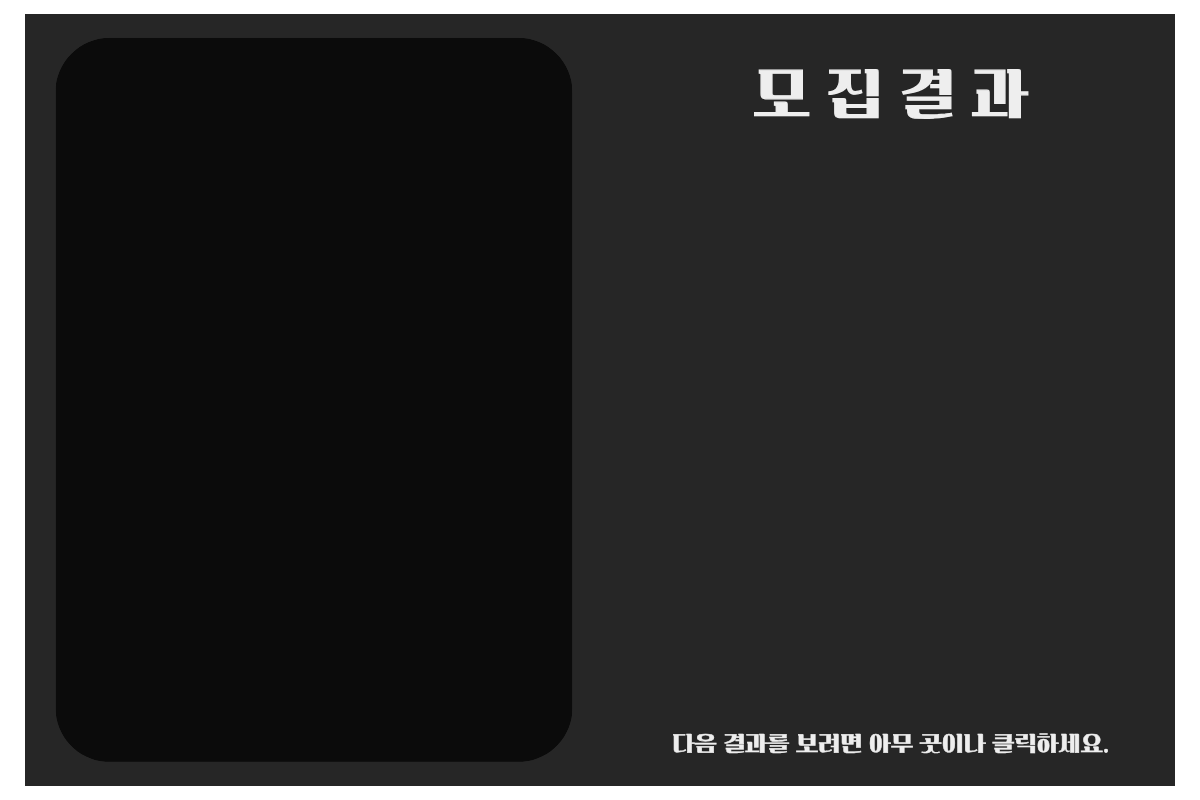
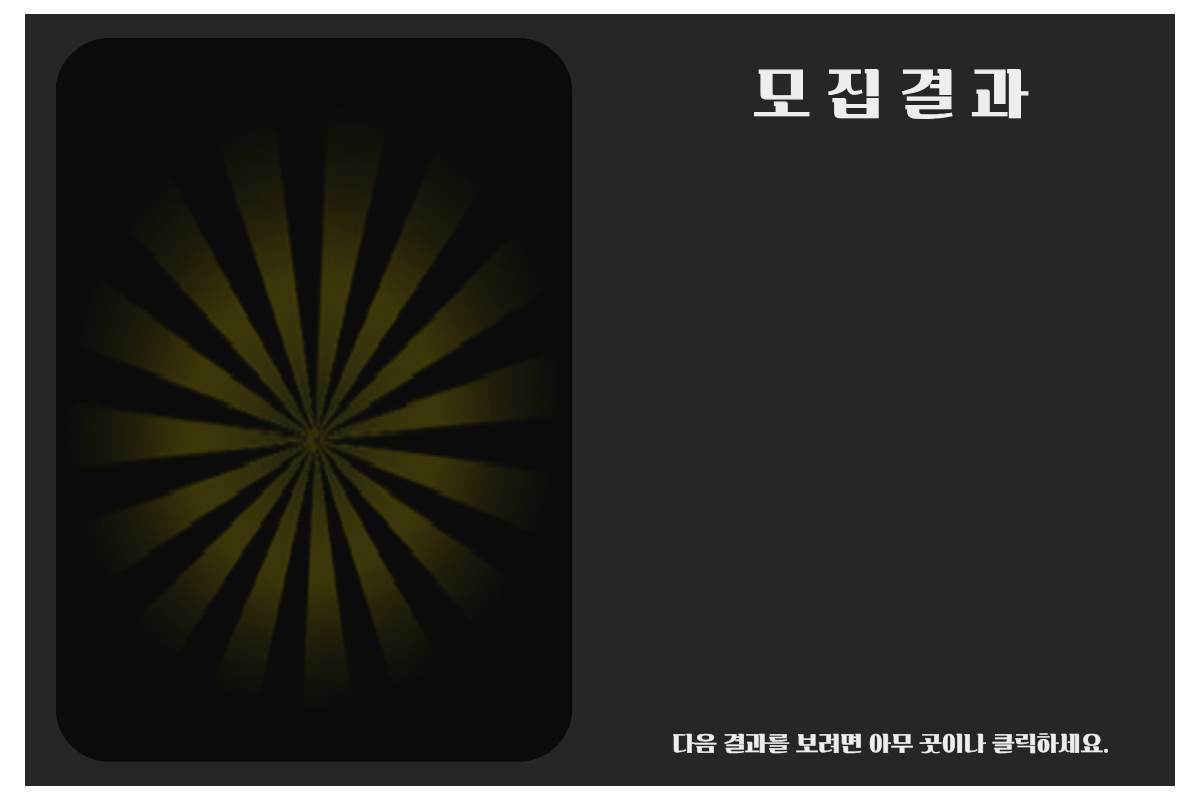
뽑기 연출 마무리 및 상점 마무리

Changed region(s): [[0.0925, 0.25, 0.4317, 0.8125]]

diff --git a/scene_folder/shop/shop.py b/scene_folder/shop/shop.py
@@ -8,14 +8,20 @@ import currency
 import random
 
 get_stack = []
-get_event = False
+get_event = False #뽑기 이벤트 위한 변수
+old_anime = None
+new_anime = None
+is_event = False #진화 이벤트 위한 변수
 
 def Reset():
-    global shop_bg_bg, shop_bg, result_bg, new_char
+    global shop_bg_bg, shop_bg, result_bg, new_char, arrow, evo_max, get_gem
     shop_bg_bg = BackGround(load_image('source\\background\\bg_home_morning.png'),gamemanager.WIDTH/2,gamemanager.HEIGHT/2,1024,800)
     shop_bg = load_image('source\\background\\shop_bg.png')
     result_bg = load_image('source\\background\\shop_result_bg.png')
     new_char = load_image('source\\background\\new_char_get.png')
+    arrow = load_image('source\\background\\shop_evo_change.png')
+    evo_max = load_image('source\\background\\shop_evo_max.png')
+    get_gem = load_image('source\\background\\shop_get_gem.png')
 
 def Update(dt):
     global shop_bg_bg, shop_bg
@@ -24,7 +30,7 @@ def Update(dt):
     pass
 
 def handle_events():
-    global get_event, get_stack
+    global get_event, get_stack, old_anime, new_anime, is_event
 
     events = get_events()
     for event in events:
@@ -49,11 +55,14 @@ def handle_events():
                         if Characters[get_stack[0] - 1].get == False:
                             Characters[get_stack[0] - 1].get = True
                     get_stack.pop(0)
-                elif get_stack == []:
-                    get_event = False
+                    is_event = False
+                    old_anime = None
+                    new_anime = None
+                    if get_stack == []:
+                        get_event = False
 
 def Draw():
-    global shop_bg_bg, shop_bg, result_bg, get_stack, new_char
+    global get_stack, new_char, old_anime, new_anime, is_event, evo_max, get_gem
     shop_bg_bg.Draw()
     shop_bg.clip_draw(0,0,1200,800,gamemanager.WIDTH/2,gamemanager.HEIGHT/2,gamemanager.WIDTH,gamemanager.HEIGHT)
     ui.draw()
@@ -65,4 +74,24 @@ def Draw():
                 if Characters[get_stack[0]-1].get == False:
                     new_char.clip_draw(0,0,new_char.w,new_char.h,gamemanager.WIDTH/2,gamemanager.HEIGHT/2, gamemanager.WIDTH,gamemanager.HEIGHT)
                 elif Characters[get_stack[0]-1].get == True:
-                    pass
+                    if Characters[get_stack[0]-1].evo < 4:
+                        if old_anime == None:
+                            old_anime = Characters[get_stack[0]-1].anime[0][0]
+                        if is_event == False:
+                            Characters[get_stack[0]-1].evolution()
+                            is_event = True
+                        if new_anime == None:
+                            new_anime = Characters[get_stack[0]-1].anime[0][1]
+                        arrow.clip_draw(0,0,arrow.w,arrow.h,gamemanager.WIDTH/2,gamemanager.HEIGHT/2, gamemanager.WIDTH,gamemanager.HEIGHT)
+                        old_anime.clip_draw(0, 0, old_anime.w, old_anime.h, 900, gamemanager.HEIGHT/2 + 150, 200, 200)
+                        new_anime.clip_draw(0, 0, new_anime.w, new_anime.h, 900, gamemanager.HEIGHT/2 - 150, 200, 200)
+                    elif Characters[get_stack[0]-1].evo >= 4:
+                        evo_max.clip_draw(0,0,evo_max.w,evo_max.h,gamemanager.WIDTH/2,gamemanager.HEIGHT/2, gamemanager.WIDTH,gamemanager.HEIGHT)
+                        if is_event == False:
+                            currency.ticket.quantity += 10
+                            is_event = True
+            else:
+                get_gem.clip_draw(0,0,get_gem.w,get_gem.h,gamemanager.WIDTH/2,gamemanager.HEIGHT/2, gamemanager.WIDTH,gamemanager.HEIGHT)
+                if is_event == False:
+                    currency.upgrade_stone.quantity += 1
+                    is_event = True

diff --git a/characters_folder/gunman.py b/characters_folder/gunman.py
@@ -47,8 +47,8 @@ gunman.Draw_turn = Draw_turn_override.__get__(gunman, Character)
 def evolution_override (self):
     self.evo += 1
     self.anime = [
-        [load_image(f'source\\character\\hope_evo\\hope_evo0{self.evo}_0{i}.png')for i in range(1, 3)],
-        [load_image(f'source\\character\\hope_evo\\hope_evo0{self.evo}_0{i}.png') for i in range(3, 5)],
-        [load_image(f'source\\character\\hope_evo\\hope_evo0{self.evo}_0{i}.png') for i in range(5, 8)]
+        [load_image(f'source\\character\\hope\\hope0{self.evo}_0{i}.png')for i in range(1, 3)],
+        [load_image(f'source\\character\\hope\\hope0{self.evo}_0{i}.png') for i in range(3, 5)],
+        [load_image(f'source\\character\\hope\\hope0{self.evo}_0{i}.png') for i in range(5, 8)]
     ]
 gunman.evolution = evolution_override.__get__(gunman, Character)

diff --git a/characters_folder/asha.py b/characters_folder/asha.py
@@ -40,8 +40,8 @@ asha.Draw_turn = Draw_turn_override.__get__(asha, Character)
 def evolution_override(self):
     self.evo += 1
     self.anime = [
-        [load_image(f'source\\character\\asha_evo\\asha_evo0{self.evo}_0{i}.png') for i in range(1, 3)],
-        [load_image(f'source\\character\\asha_evo\\asha_evo0{self.evo}_0{i}.png') for i in range(3, 5)],
-        [load_image(f'source\\character\\asha_evo\\asha_evo0{self.evo}_0{i}.png') for i in range(5, 8)]
+        [load_image(f'source\\character\\asha\\asha0{self.evo}_0{i}.png') for i in range(1, 3)],
+        [load_image(f'source\\character\\asha\\asha0{self.evo}_0{i}.png') for i in range(3, 5)],
+        [load_image(f'source\\character\\asha\\asha0{self.evo}_0{i}.png') for i in range(5, 8)]
     ]
 asha.evolution = evolution_override.__get__(asha, Character)

diff --git a/characters_folder/kimu.py b/characters_folder/kimu.py
@@ -47,8 +47,8 @@ kimu.Draw_turn = Draw_turn_override.__get__(kimu, Character)
 def evolution_override(self):
     self.evo += 1
     self.anime = [
-        [load_image(f'source\\character\\kimu_evo\\kimu_evo0{self.evo}_0{i}.png') for i in range(1, 3)],
-        [load_image(f'source\\character\\kimu_evo\\kimu_evo0{self.evo}_0{i}.png') for i in range(3, 5)],
-        [load_image(f'source\\character\\kimu_evo\\kimu_evo0{self.evo}_0{i}.png') for i in range(5, 8)]
+        [load_image(f'source\\character\\kimu\\kimu0{self.evo}_0{i}.png') for i in range(1, 3)],
+        [load_image(f'source\\character\\kimu\\kimu0{self.evo}_0{i}.png') for i in range(3, 5)],
+        [load_image(f'source\\character\\kimu\\kimu0{self.evo}_0{i}.png') for i in range(5, 8)]
     ]
 kimu.evolution = evolution_override.__get__(kimu, Character)
